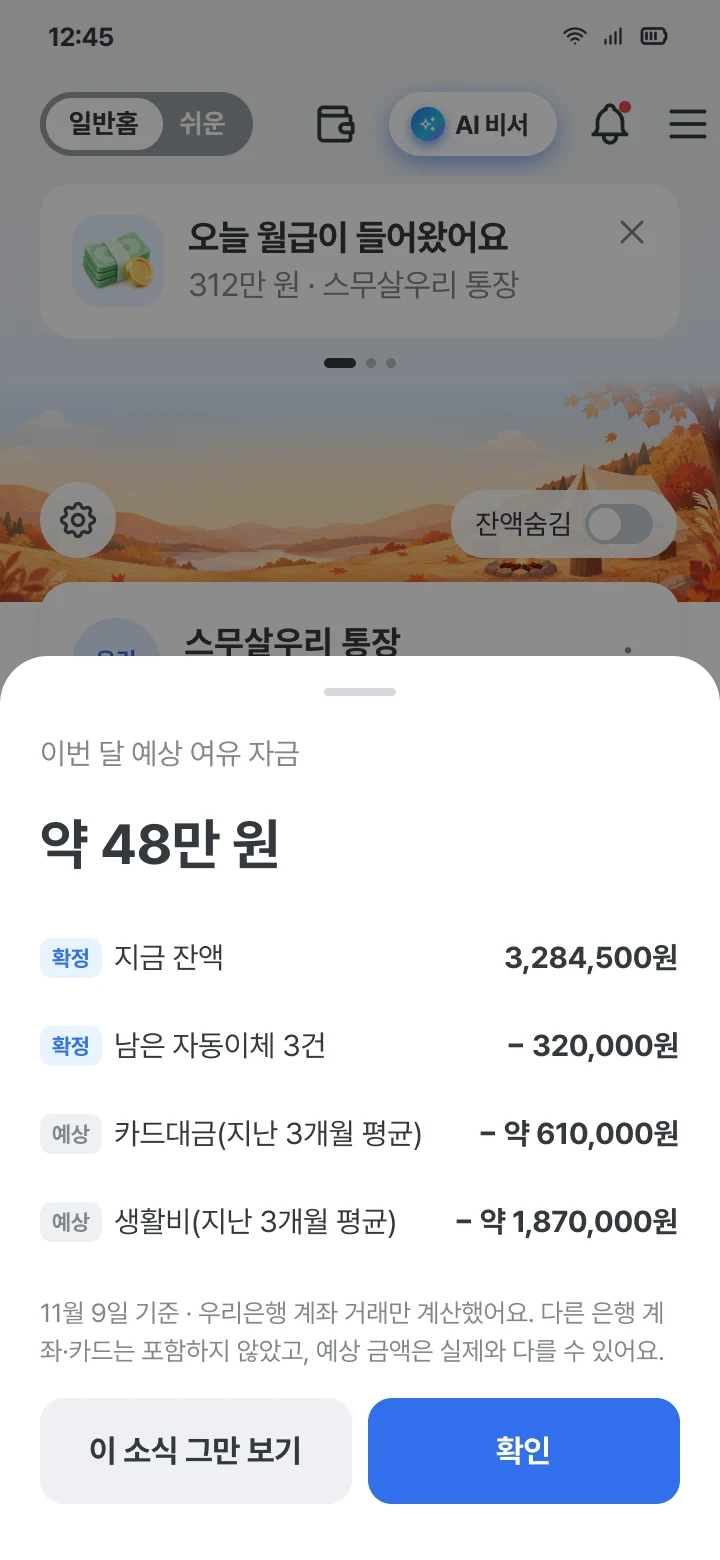
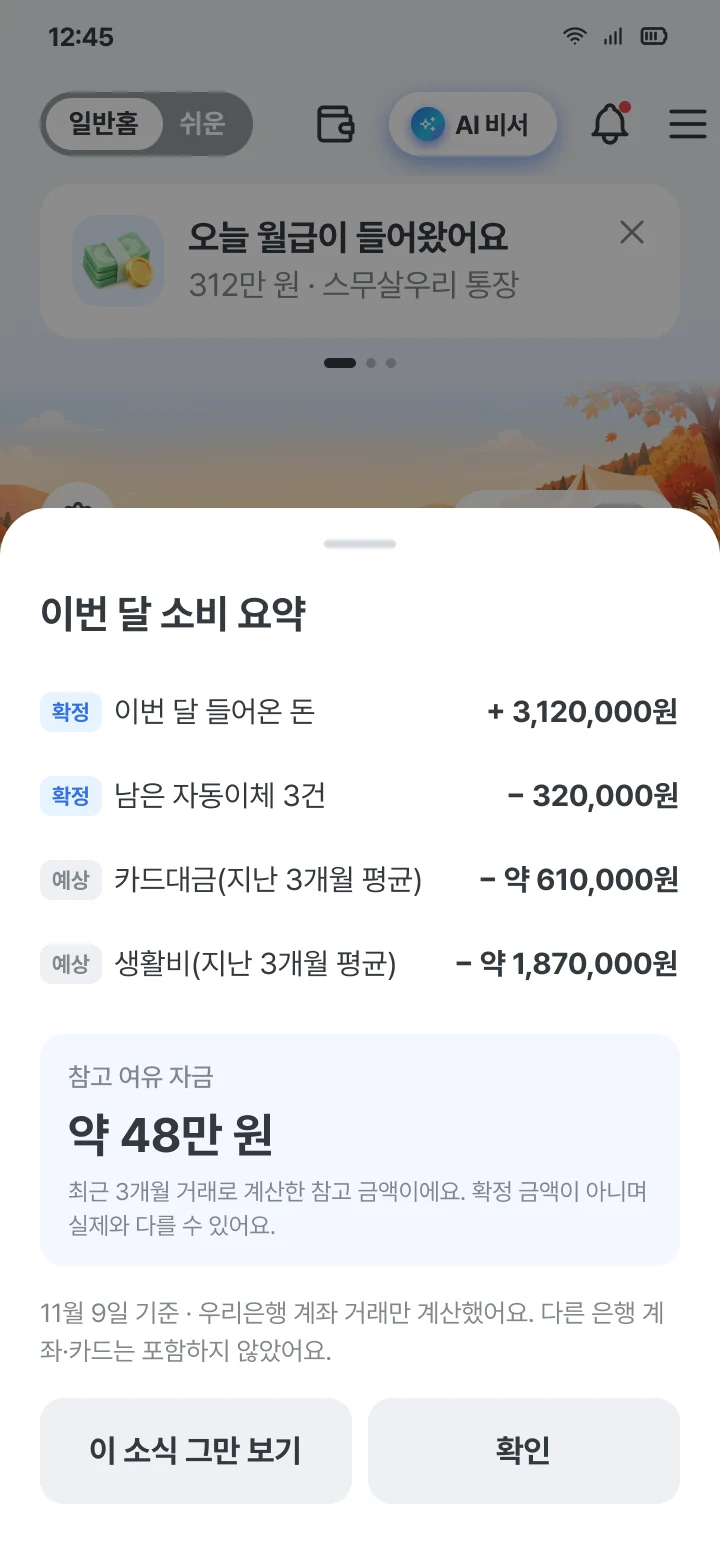
화면 v3: 소비 요약·참고 여유 자금, 금액 직접 입력, 가입 1/3 체크박스, 적금 일반명

diff --git a/screens.js b/screens.js
@@ -6,24 +6,10 @@ window.SCREENS = {
   "src": "screens/s01.webp",
   "spots": [
    {
-    "l": 5.56,
-    "t": 28.844,
-    "w": 88.89,
-    "h": 2.177,
-    "to": "s04"
-   },
-   {
     "l": 64.44,
     "t": 37.211,
     "w": 28.06,
     "h": 2.109,
-    "to": "s05"
-   },
-   {
-    "l": 5.56,
-    "t": 40.408,
-    "w": 88.89,
-    "h": 2.041,
     "to": "s05"
    },
    {
@@ -143,7 +129,7 @@ window.SCREENS = {
   ]
  },
  "s04": {
-  "name": "04 A · 예상 여유 자금 계산 보기",
+  "name": "04 A · 소비 요약과 참고 여유 자금",
   "w": 360,
   "h": 780,
   "src": "screens/s04.webp",
@@ -171,13 +157,6 @@ window.SCREENS = {
   "src": "screens/s05.webp",
   "spots": [
    {
-    "l": 51.94,
-    "t": 89.231,
-    "w": 41.94,
-    "h": 7.564,
-    "to": "s07"
-   },
-   {
     "l": 6.67,
     "t": 89.231,
     "w": 41.39,
@@ -200,20 +179,6 @@ window.SCREENS = {
   "src": "screens/s06.webp",
   "spots": [
    {
-    "l": 10.0,
-    "t": 37.179,
-    "w": 57.78,
-    "h": 5.769,
-    "to": "s07"
-   },
-   {
-    "l": 69.44,
-    "t": 37.308,
-    "w": 20.56,
-    "h": 5.641,
-    "act": "back"
-   },
-   {
     "l": 85.0,
     "t": 5.128,
     "w": 12.22,
@@ -229,13 +194,6 @@ window.SCREENS = {
   "src": "screens/s07.webp",
   "spots": [
    {
-    "l": 5.56,
-    "t": 90.256,
-    "w": 88.89,
-    "h": 7.179,
-    "to": "s08"
-   },
-   {
     "l": 0.56,
     "t": 5.385,
     "w": 11.11,
@@ -245,33 +203,11 @@ window.SCREENS = {
   ]
  },
  "s08": {
-  "name": "08 가입 · 매달 넣을 돈(직접 선택)",
+  "name": "08 가입 · 매달 넣을 돈(직접 입력)",
   "w": 360,
   "h": 780,
   "src": "screens/s08.webp",
-  "spots": [
-   {
-    "l": 30.83,
-    "t": 75.256,
-    "w": 22.22,
-    "h": 6.41,
-    "to": "s09"
-   },
-   {
-    "l": 5.83,
-    "t": 75.256,
-    "w": 22.22,
-    "h": 6.41,
-    "toast": "시연에서는 30만 원으로 이어 가요."
-   },
-   {
-    "l": 55.83,
-    "t": 75.256,
-    "w": 22.22,
-    "h": 6.41,
-    "toast": "시연에서는 30만 원으로 이어 가요."
-   }
-  ]
+  "spots": []
  },
  "s09": {
   "name": "09 가입 3/3 · 설명·동의·최종 확인",

diff --git a/index.html b/index.html
@@ -8,7 +8,7 @@
 <title>WON'S 시제품 · SSAFY 경진대회</title>
 <meta name="description" content="SSAFY 아이디어 경진대회 본선 시제품입니다. 실제 은행 앱이 아니며 모든 데이터는 가상입니다.">
 <link rel="stylesheet" href="https://cdn.jsdelivr.net/gh/orioncactus/pretendard@v1.3.9/dist/web/static/pretendard.min.css">
-<link rel="stylesheet" href="style.css?v=2">
+<link rel="stylesheet" href="style.css?v=3">
 </head>
 <body>
 <header class="bar" id="bar">
@@ -64,7 +64,7 @@
 </div>
 <div class="toast" id="toast" role="status" aria-live="polite"></div>
 
-<script src="screens.js?v=2"></script>
-<script src="app.js?v=2"></script>
+<script src="screens.js?v=3"></script>
+<script src="app.js?v=3"></script>
 </body>
 </html>
